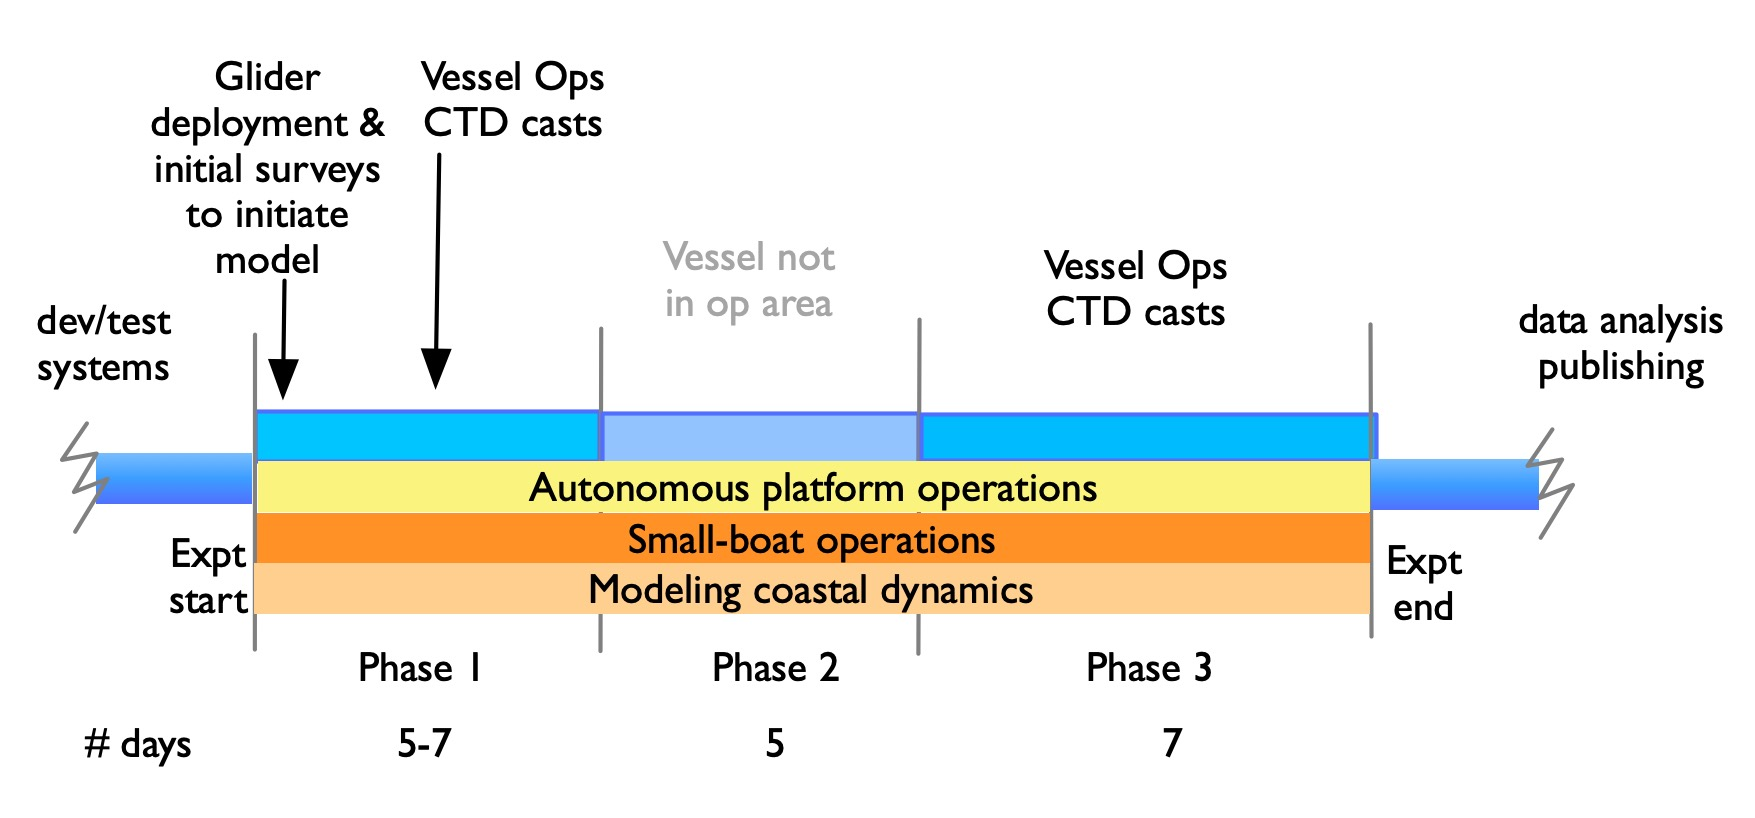
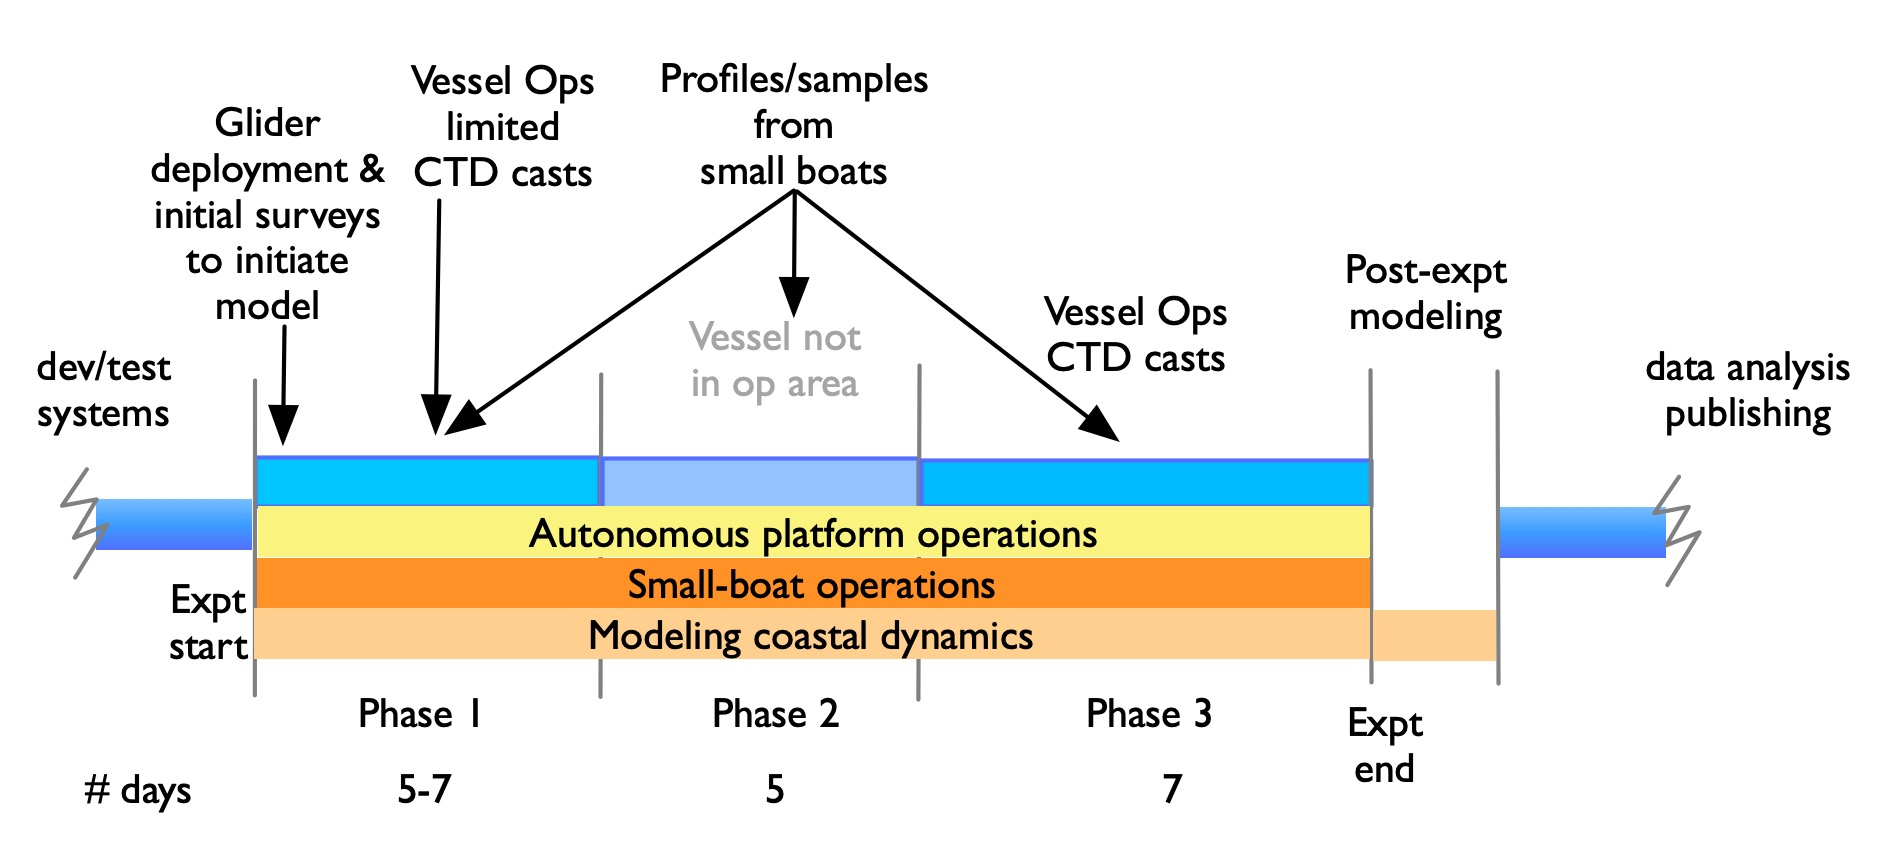
updates

diff --git a/ops.tex b/ops.tex
@@ -43,7 +43,7 @@ being housed in the Berlengas island.
 
 Each multiparametric buoy is equipped with:
 
-\begin{enumerate}
+\begin{enumerate}[noitemsep,topsep=0pt,parsep=0pt,partopsep=0pt]
 
   \item A meteorological mast providing hourly measurements of wind speed and
     direction, air temperature, atmospheric pressure and relative
@@ -105,38 +105,35 @@ planned:
  
 % Phase 1 (precursor survey):
 \paragraph{Phase 1} A preliminary characterization of the geographical
-area of interest will be conducted during this phase. The precursor
-phase will be preceded by the identification of the prevailing features
-that characterize the coastal ocean area of interest from remote sensing
-imagery and (if available) from surface currents measured by a HF radar
-system. The surface data will allow identification of the main features
-present in the area (in SST, Chl, turbidity and currents) and to select
-a limited number of key stations where the surface information will be
-complemented by water column casts. % In case no surface data is
+area of interest will be conducted during this phase with the
+identification of the prevailing features that characterize the coastal
+ocean area of \naz from remote sensing imagery and (if available) from
+surface currents measured by HF radar. The data will allow
+identification in SST, Chl, turbidity and currents, for example, and to
+select a limited number of key stations which can be complemented by CTD
+casts. % In case no surface data is
 % available (because of cloud cover obstructing optical remote sensing)
 % the location of these points will be dictated by the characteristics of
 % the topography of the area, by the prevailing forcing conditions and by
 % previous knowledge about the primary processes.
 This phase will combine operations from small boats with operations
 conducted onboard a \inst hydrographic vessel that will pass through the
-area during this period. Glider deployments off-shore to provide
-boundary conditions for the models will be initiated and augment
-available remote sensing (or HF radar) data. Sampling with vertical nets
-will also be done at some stations; part of the water samples collected
-will be used to evaluate the nutrient profiles in the water column.
-These samples will be analyzed at the \inst Marine Chemistry and
-Pollution laboratories and will be available in about 1--2 days. They
-will aid in characterizing the nutrient intake to upper levels
+area. Glider deployments off-shore to provide boundary conditions for
+the models will be initiated and augment available remote sensing (or HF
+radar) data. Sampling with vertical nets will also be done at some
+stations; part of the water samples collected will be used to evaluate
+the nutrient profiles in the water column. % These samples will be
+% analyzed at the \inst Marine Chemistry and Pollution laboratories and
+% will be available in about 1--2 days.
+They will aid in characterizing the nutrient intake to upper levels
 associated with intensified upwelling at the canyon head or the inputs
-to the coastal ocean associated by freshwater inputs along the coast, to
-initialize the nutrient fields in the BGC model. Analysis of water
-samples collected by the small boats will be used for calibration of the
-CTD fluorometer and calibrate the ADCP echo intensity data in
-zooplankton biomass. Remote operations from Porto will also be tested as
-a means to demonstrate an Ocean Space Center (OSC) \cite{lima21}. This
-phase will likely be between 5--7 days.
-
- 
+to the coastal ocean associated by freshwater inputs along the coast as
+a means to initialize the nutrient fields in the BGC model. Analysis of
+water samples collected by the small boats will be used for calibration
+of the CTD fluorometer and as also to calibrate the ADCP echo intensity
+data for zooplankton biomass. Remote operations from Porto will also be
+tested as a means to demonstrate an Ocean Space Center (OSC)
+\cite{lima21}. This phase will likely be between 5--7 days.
 
 % During 2--3 days a team onboard a small-boat will conduct a set of
 % measurements in the water column (to about 200 m depth) at the key
@@ -207,10 +204,19 @@ consider night-time operations of powered AUVs, on the shelf subject to
 local conditions and importance of data collection to fill any
 outstanding gaps. Should those be feasible, the use of the OSC will
 significantly aid operations and demonstrate the applicability of
-networked robotic operations even in constrained near-shore locations. 
+networked robotic operations even in constrained near-shore locations.
+This phase will last a full 5 days concentrating the efforts and energy
+of all participants.
+
+\paragraph{Post experiment} At the completion of the experiment and
+demobilization, modeling the water-column will continue based on the
+sampling from the prior weeks, primarily to demonstrate improvement with
+assimilation. In this case the models will be run in hindcast mode to
+give us the best possible description of evolution of conditions during
+the two weeks of the experiment.
 
 
-\begin{table}[H]
+\begin{table}[!t]
   \centering
   % \vspace{-0.5cm}
   \footnotesize{
@@ -336,6 +342,20 @@ will enable local fisherman to provide timely data in this meso-scale
 region. All such data will be assimilated into the ocean models run by
 \inst and supported by \mit which continues to support \texttt{HOPS}
 development.
+
+While our intent is to have the experiment in the September/October 2021
+time frame, considering the current pandemic situation and the
+associated uncertainties, we will have backup plans associated with the
+following dates, which are coincident with when the \inst vessel visits
+the \naz area for servicing buoys in that order:
+
+\begin{itemize}[noitemsep,topsep=0pt,parsep=0pt,partopsep=0pt]
+
+\item Fall 2021 (Sept/Oct) -- primary target
+\item Spring 2022 (April/May)
+\item Fall 2022 (Sept/Oct) 
+
+\end{itemize}  
 
 
 \paragraph{COVID protocol} As per standard oceanographic cruise

diff --git a/background.tex b/background.tex
@@ -60,7 +60,7 @@ importance of subsurface processes such as the slope current.
  
 These events highlight:
 
-\begin{itemize}
+\begin{itemize}[noitemsep,topsep=0pt,parsep=0pt,partopsep=0pt]
   
 \item the importance of assimilation models that are fed with real
   observations to provide forecasts consistent with actual evolution
